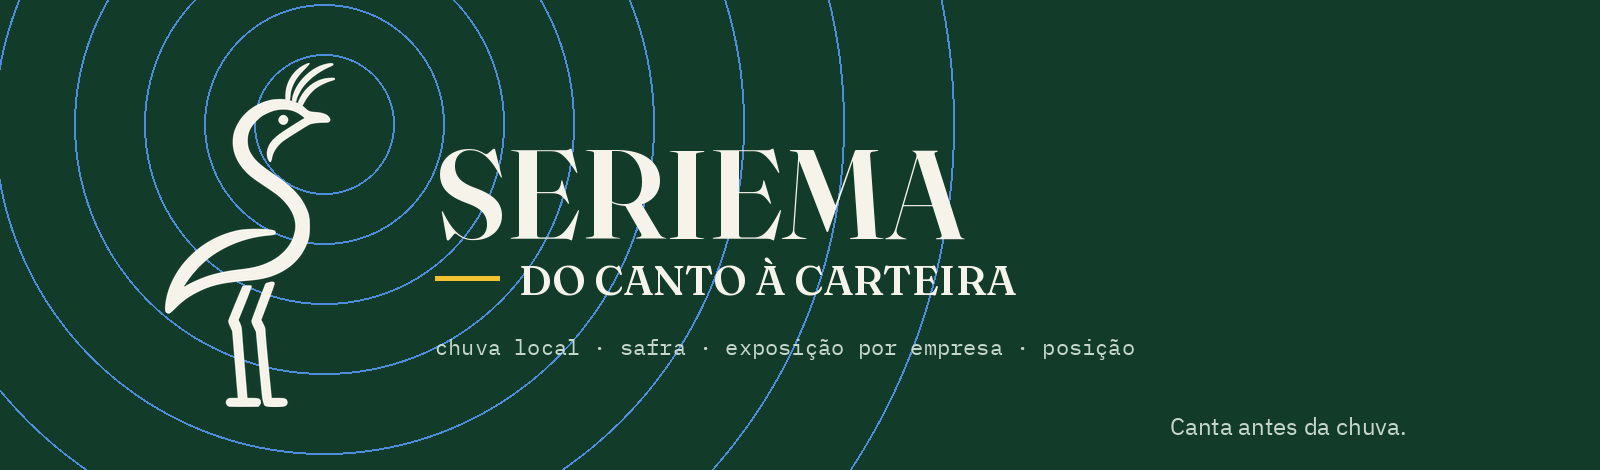
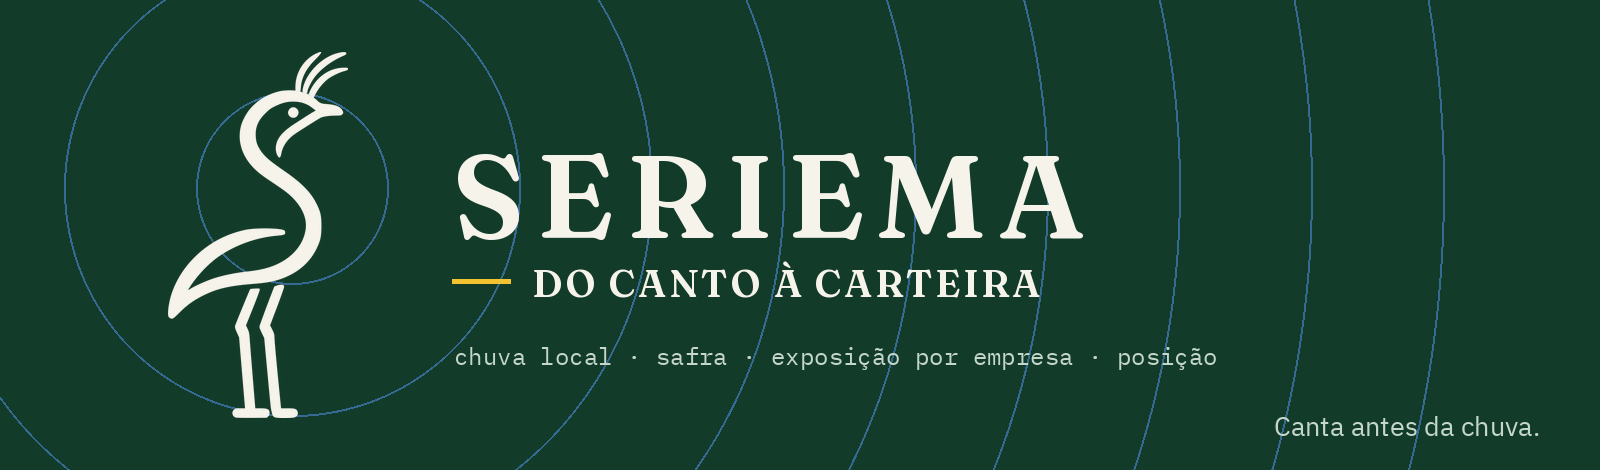
fix(brand): corrigir a fonte do wordmark e assinar a autoria no README
O lockup de abertura estava com o wordmark SERIEMA no corpo optico de display da
Fraunces, que produz um didone de hairline e nao e o desenho usado na pagina 1 do
relatorio. O PNG tambem era orfao: entrou no repo sem gerador, o que e a razao de
o erro ter passado. Agora existe um gerador no estudio, com o corpo optico
explicito, e o lockup bate com a peca selada. Arcos e hierarquia foram
reequilibrados na mesma passada.

Autoria: o README nao nomeava ninguem. A assinatura da equipe passa a ficar logo
abaixo da tagline, onde se procura autoria, e nao depois das instrucoes de
instalacao. A nota de que o relatorio submetido e anonimo fica no fecho, junto da
licenca.

diff --git a/README.en.md b/README.en.md
@@ -9,6 +9,11 @@
 </p>
 
 <p align="center">
+  team <strong>out-of-sample</strong> · Caio Nicoluzzi Vieira · Renzo Real Machado Filho · Gabriel Freire Ushijima<br>
+  <sub>Desafio Quant AI 2026 — Itaú Asset</sub>
+</p>
+
+<p align="center">
   <a href="report/relatorio-seriema.pdf">Final report</a> ·
   <a href="results/README.md">Results atlas</a> ·
   <a href="docs/README.md">Documentation</a> ·
@@ -175,3 +180,6 @@ size, provider terms, and vintage preservation. The exact boundary is documented
 Original code and materials are released under [`Apache-2.0`](LICENSE). The license does not grant
 rights to third-party data or trademarks. This is an academic research artifact, not investment
 advice or a live execution system.
+
+The report submitted for judging is **anonymous**, as the competition rules require. Authorship is
+recorded here, in [`CITATION.cff`](CITATION.cff), and in [`NOTICE`](NOTICE).

diff --git a/README.md b/README.md
@@ -9,6 +9,11 @@
 </p>
 
 <p align="center">
+  equipe <strong>out-of-sample</strong> · Caio Nicoluzzi Vieira · Renzo Real Machado Filho · Gabriel Freire Ushijima<br>
+  <sub>Desafio Quant AI 2026 — Itaú Asset</sub>
+</p>
+
+<p align="center">
   <a href="report/relatorio-seriema.pdf">Relatório final</a> ·
   <a href="results/README.md">Atlas de resultados</a> ·
   <a href="docs/README.md">Documentação</a> ·
@@ -177,3 +182,6 @@ O código e os materiais originais são disponibilizados sob
 [`Apache-2.0`](LICENSE). A licença não transfere direitos sobre dados ou marcas de terceiros. Este
 é um artefato acadêmico de pesquisa, não recomendação de investimento nem sistema de execução ao
 vivo.
+
+O relatório submetido à avaliação é **anônimo**, como exige o regulamento do desafio. A autoria
+fica registrada aqui, no [`CITATION.cff`](CITATION.cff) e no [`NOTICE`](NOTICE).
